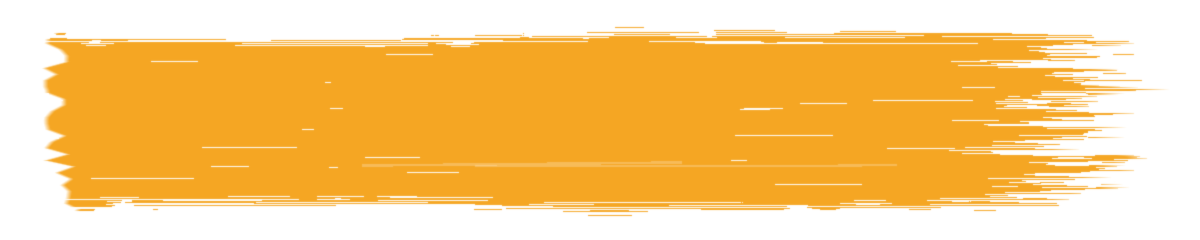
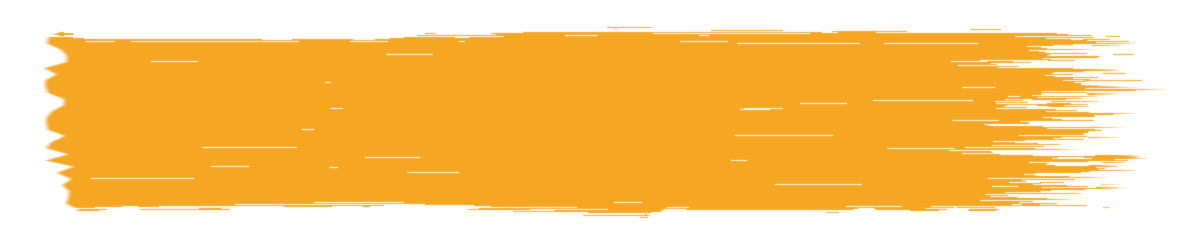
Klartext Hand aus des Auftraggebers Schriftmuster, Pinselstrich wie Vorlage

Changed region(s): [[0.0617, 0.7875, 0.925, 0.9042], [0.0308, 0.1167, 0.9558, 0.2042], [0.3083, 0.6708, 0.74, 0.7]]

diff --git a/stil.css b/stil.css
@@ -16,9 +16,10 @@
     U+2113,U+2C60-2C7F,U+A720-A7FF}
 @font-face{font-family:'Rock Salt';src:url(fonts/rocksalt.woff2) format('woff2');
   font-weight:400;font-display:swap}
-/* Klartext Hand: eigene Schreibschrift, gebaut am 23.10.2026 aus dem
-   Logo-Schriftzug "digital" (KI-Lettering, Kleinbuchstaben und Versalien
-   per GPT Image im selben Stil ergaenzt, nachgezeichnet, fontTools).
+/* Klartext Hand: eigene Schreibschrift, gebaut am 23.10.2026 aus des Auftraggebers
+   Schriftmuster "Stilableitung aus dem Logo" (A–Z, a–z, ÄÖÜäöüß, 0–9),
+   Satzzeichen aus einem zweiten Blatt im selben Stil; nachgezeichnet,
+   mit fontTools gebaut.
    Gehoert Klartext Digital, liegt darum auf dem eigenen Server. */
 @font-face{font-family:'Klartext Hand';src:url(fonts/klartext-hand.woff2) format('woff2');
   font-weight:400 900;font-display:swap}
@@ -4745,48 +4746,48 @@ body .wege__mehr:hover{filter:saturate(1.25) brightness(.96)}
 
 
 /* ── Pinselstrich: Handschrift auf orangem Dry Brush ──────────
-   23.10.2026, Auftraggeber: alle Schreibschrift-Stellen und die orangen Woerter
-   in Caprizant Bold, dunkle Schrift auf einem trockenen Pinselstrich in
-   Amber (Vorlagen: "Projekte.", "niemand", "Budget, das arbeitet.").
-   Der Strich ist ein Bild (bilder/pinsel.webp), gesetzt als border-image:
-   Anfang und trockener Auslauf behalten ihre Groesse, nur die Mitte
-   waechst mit dem Wort. Mit background-size:100% lief der Auslauf bei
-   langen Zeilen unter die letzten Buchstaben. Er sitzt auf dem inneren Traeger .brush__t, sobald
-   das Skript ihn angelegt hat: dann malt der Schreib-Reveal Strich und
-   Wort zusammen von links nach rechts. Ohne Skript sitzt er aussen. */
+   23.10.2026, Auftraggeber, nach seinen Vorlagen "Projekte." und "niemand":
+   dunkle Schrift (Klartext Hand) GROESSER als der orange Strich, sie ragt
+   oben und unten heraus; die Tinte selbst hat trockene Pinselstreifen.
+   Aufbau in zwei Ebenen, weil eine Maske alles im Element trifft:
+     aussen (.brush/.wort)  der Strich als border-image (bilder/pinsel.webp):
+                            Anfang und Auslauf behalten ihre Groesse, nur die
+                            Mitte waechst mit dem Wort.
+     innen  (.brush__t)     die Schrift mit Streifenmaske (bilder/tinte.png).
+                            Der Build legt den Traeger immer an, nicht erst
+                            das Skript. Polster + Minus-Rand geben der Maske
+                            Platz fuer Ober- und Unterlaengen. */
 .brush,.wort,.fall__daten dt,.beitrag .datum,.fuss__kopf,.fzk__marke,.lese__zeit{
   font-family:var(--hand),cursive;font-weight:700;font-style:normal;
   color:var(--tinte)!important;letter-spacing:0}
 .brush,.wort{
   border:0 solid transparent;border-image:url(bilder/pinsel.webp) 0 230 0 110 fill / 0 1.05em 0 .5em stretch;
-  padding:.18em .62em .2em .38em;
+  padding:.02em .7em 0 .42em;line-height:.78;
   -webkit-box-decoration-break:clone;box-decoration-break:clone}
-.brush:has(> .brush__t){border-image:none;padding:0}
-.brush > .brush__t{border:0 solid transparent;border-image:url(bilder/pinsel.webp) 0 230 0 110 fill / 0 1.05em 0 .5em stretch;
-  padding:.18em .62em .2em .38em;margin:0}
+.brush > .brush__t,.wort > .brush__t{display:inline-block;font:inherit;color:inherit;
+  padding:.42em .12em .4em;margin:-.42em -.12em -.4em;
+  -webkit-mask:url(bilder/tinte.png) 0 0 / 3em auto repeat;
+          mask:url(bilder/tinte.png) 0 0 / 3em auto repeat}
 /* Zeilen-Brush: so breit wie ihr Text, linke Textkante bleibt auf der
    Kante der Ueberschrift — der Strich ragt links heraus wie im Entwurf. */
 p.brush,.referenzen .brush,.weiter .brush{display:block;width:fit-content;max-width:100%}
-p.brush{margin-left:-.38em}
+p.brush{margin-left:-.42em}
 p.brush.mitte,.referenzen .brush,.weiter .brush,.mitte > p.brush{margin-left:auto;margin-right:auto}
-/* Zeilen-Brush: Klartext Hand laeuft breit, darum etwas kleiner als Rock Salt */
-p.brush{font-size:clamp(26px,2.9vw,48px);line-height:1.15}
-.unter .brush,.unter__text > .brush{font-size:clamp(22px,2.3vw,38px)}
-/* Klartext Hand ist so hoch und breit wie die Figtree daneben: 1em reicht.
-   (Caprizant brauchte wegen ihrer kleinen x-Hoehe 1.5em.) */
-h1 .brush,h2 .brush,h1 .wort,h2 .wort{font-size:1.02em;font-weight:700;margin:0 .02em;
-  display:inline-block;line-height:.95;letter-spacing:0;padding:.16em .55em .16em .3em;
-  margin:-.14em 0;vertical-align:-.04em}
-.buehne h1 .wort{font-weight:700;color:var(--tinte);font-size:.86em;
-  padding-right:.55em;margin-right:-.16em}
+p.brush{font-size:clamp(34px,3.7vw,60px)}
+.unter .brush,.unter__text > .brush{font-size:clamp(30px,3vw,50px)}
+/* In Ueberschriften steht das Wort so gross wie die Figtree daneben und
+   ueberragt den Strich, wie in den Vorlagen. */
+h1 .brush,h2 .brush,h1 .wort,h2 .wort{font-size:1.3em;font-weight:700;
+  display:inline-block;line-height:.66;letter-spacing:0;padding:.04em .55em .02em .32em;
+  margin:0 .02em;vertical-align:-.02em}
+.buehne h1 .wort{font-size:1.04em;padding-right:.44em;margin-right:-.2em}
 /* Die Bühne hat zwei feste Zeilen (nowrap). Mit Strich darf die zweite
    Zeile nicht breiter werden als die erste, sonst ragt sie ab 1280 px
    aus der Spalte. */
 /* Kleine Marken (Datum, Fusskoepfe, "/Monat"): unter rund 24 px wird der
-   Strich zum Fleck und das Wort darauf unleserlich. Dort nur die Schrift,
-   dunkel und eine Stufe groesser als vorher in Rock Salt. */
+   Strich zum Fleck und das Wort darauf unleserlich. Dort nur die Schrift. */
 .fall__daten dt,.beitrag .datum,.fuss__kopf,.fzk__marke,.lese__zeit,
 .paket__preis .brush,.blog__hand .brush,.brief__hand .brush{
   font-size:20px;line-height:1.35;border-image:none;padding:0}
-.paket__preis .brush:has(> .brush__t),.blog__hand .brush > .brush__t,
-.brief__hand .brush > .brush__t,.paket__preis .brush > .brush__t{border-image:none;padding:0}
+.paket__preis .brush > .brush__t,.blog__hand .brush > .brush__t,
+.brief__hand .brush > .brush__t{-webkit-mask:none;mask:none}

diff --git a/scripts/build.py b/scripts/build.py
@@ -378,6 +378,10 @@ for source,route in ROUTES.items():
    sizes=IMAGE_SIZES.get(item[0],'(max-width: 700px) 100vw, 50vw') if item else '(max-width: 700px) 100vw, 50vw'
    tag=tag[:-1]+' srcset="'+candidates+'"'+('' if hat_sizes else ' sizes="'+sizes+'"')+'>'
   return tag
+ # Handschrift: der innere Traeger .brush__t steht immer im Markup (Strich
+ # aussen, Schrift mit Pinselmaske innen), nicht erst, wenn das Skript laeuft.
+ s=re.sub(r'(<(p|span|em|b|i)\b[^>]*class="[^"]*\b(?:brush|wort)\b[^"]*"[^>]*>)(?!<span class="brush__t">)(.*?)(</\2>)',
+  r'\1<span class="brush__t">\3</span>\4',s,flags=re.S)
  s=re.sub(r'<(?:a|link|img|script|video|source)\b[^>]*>',tagfix,s)
  if route and route not in ['marke.html','laune.html','takt.html']:
   markup,bc=breadcrumb(route,title);graph.append(bc)
